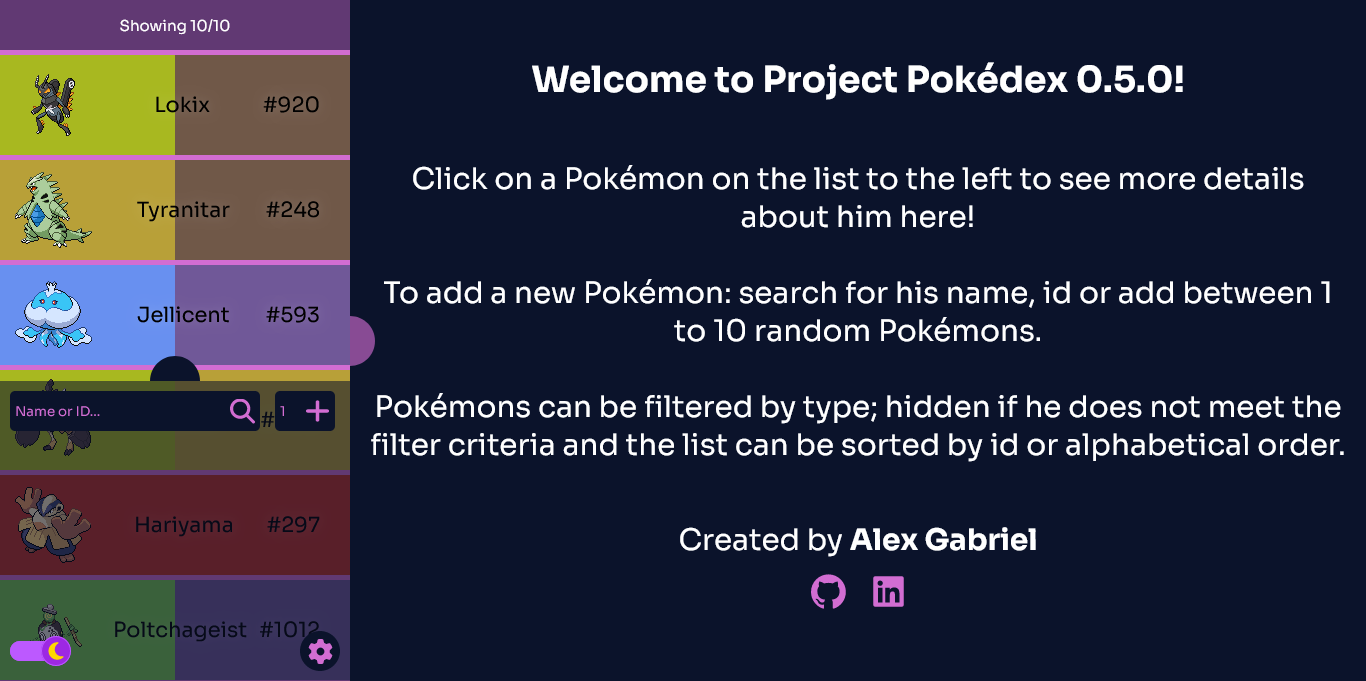
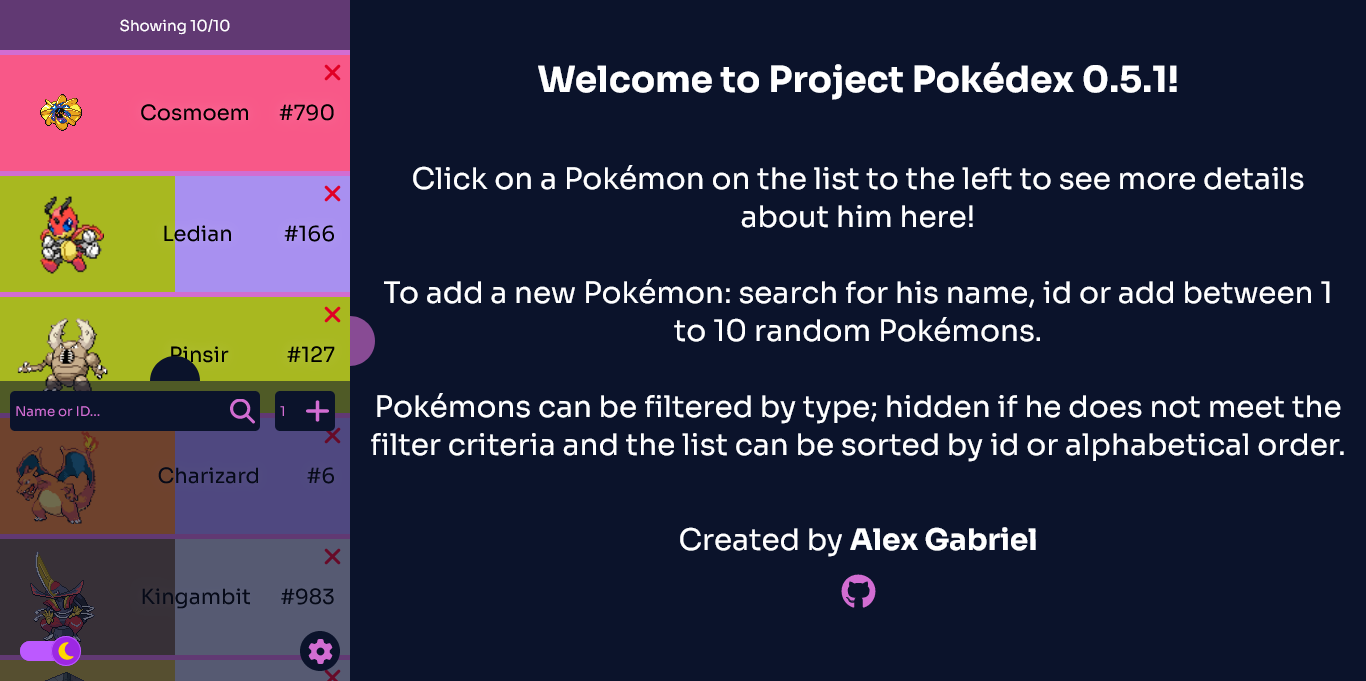
chore: update for version 0.5.1
package.json | package-lock.json
- Change to version 0.5.1.

README.md
- Mark "Allows deleting a Pokémon from it." functionality.
- Take new Welcome page screenshots

diff --git a/README.md b/README.md
@@ -68,7 +68,7 @@
    - [X] Is initially populated with 10 Pokémons fetched from the PokéAPI or recovered from user's Local Storage if saved there.
    - [X] Can be increased by typing the Pokémon's name or ID or by letting the App get 1 to 10 random ones.
    - [X] Exhibits amount of Pokémons inside it.
-   - [ ] Allows deleting a Pokémon from it.
+   - [X] Allows deleting a Pokémon from it.
    - [ ] Can sort Pokémons by ID, name or type(s).
    - [ ] Can filter by type(s).
 
